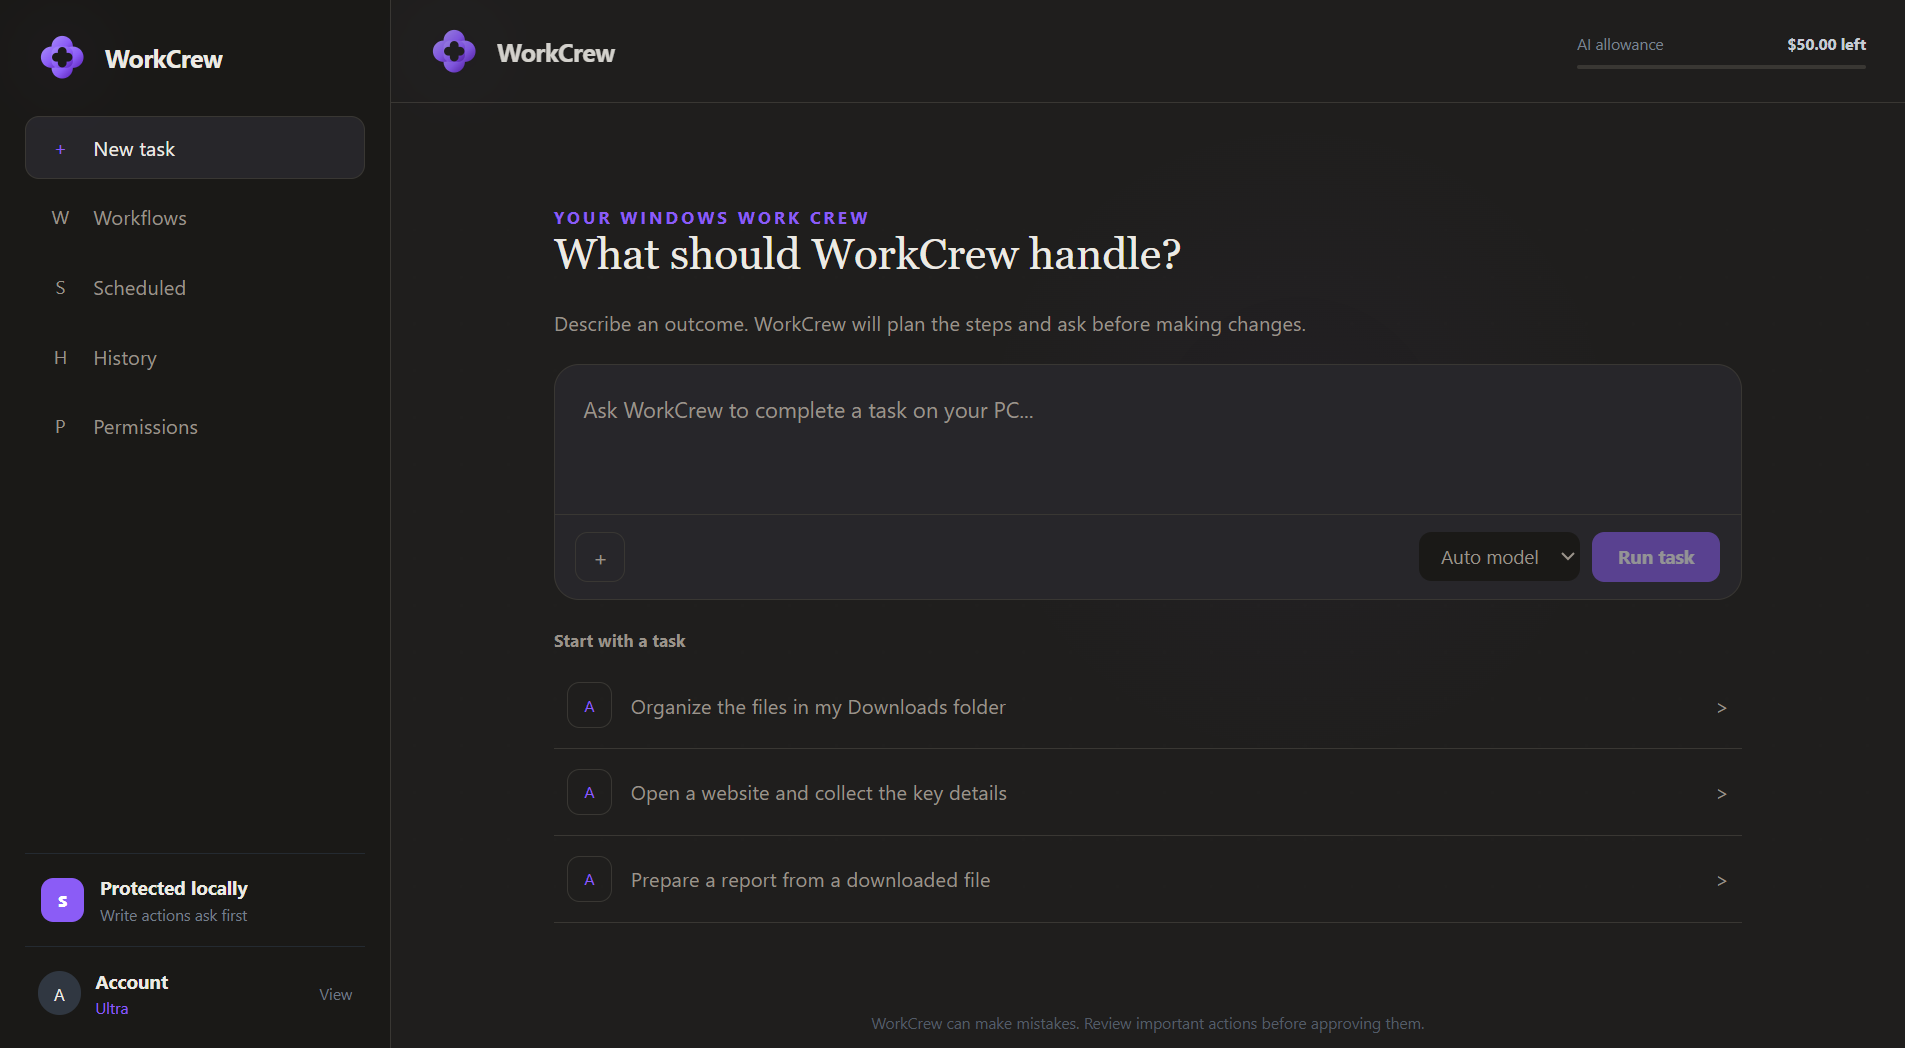
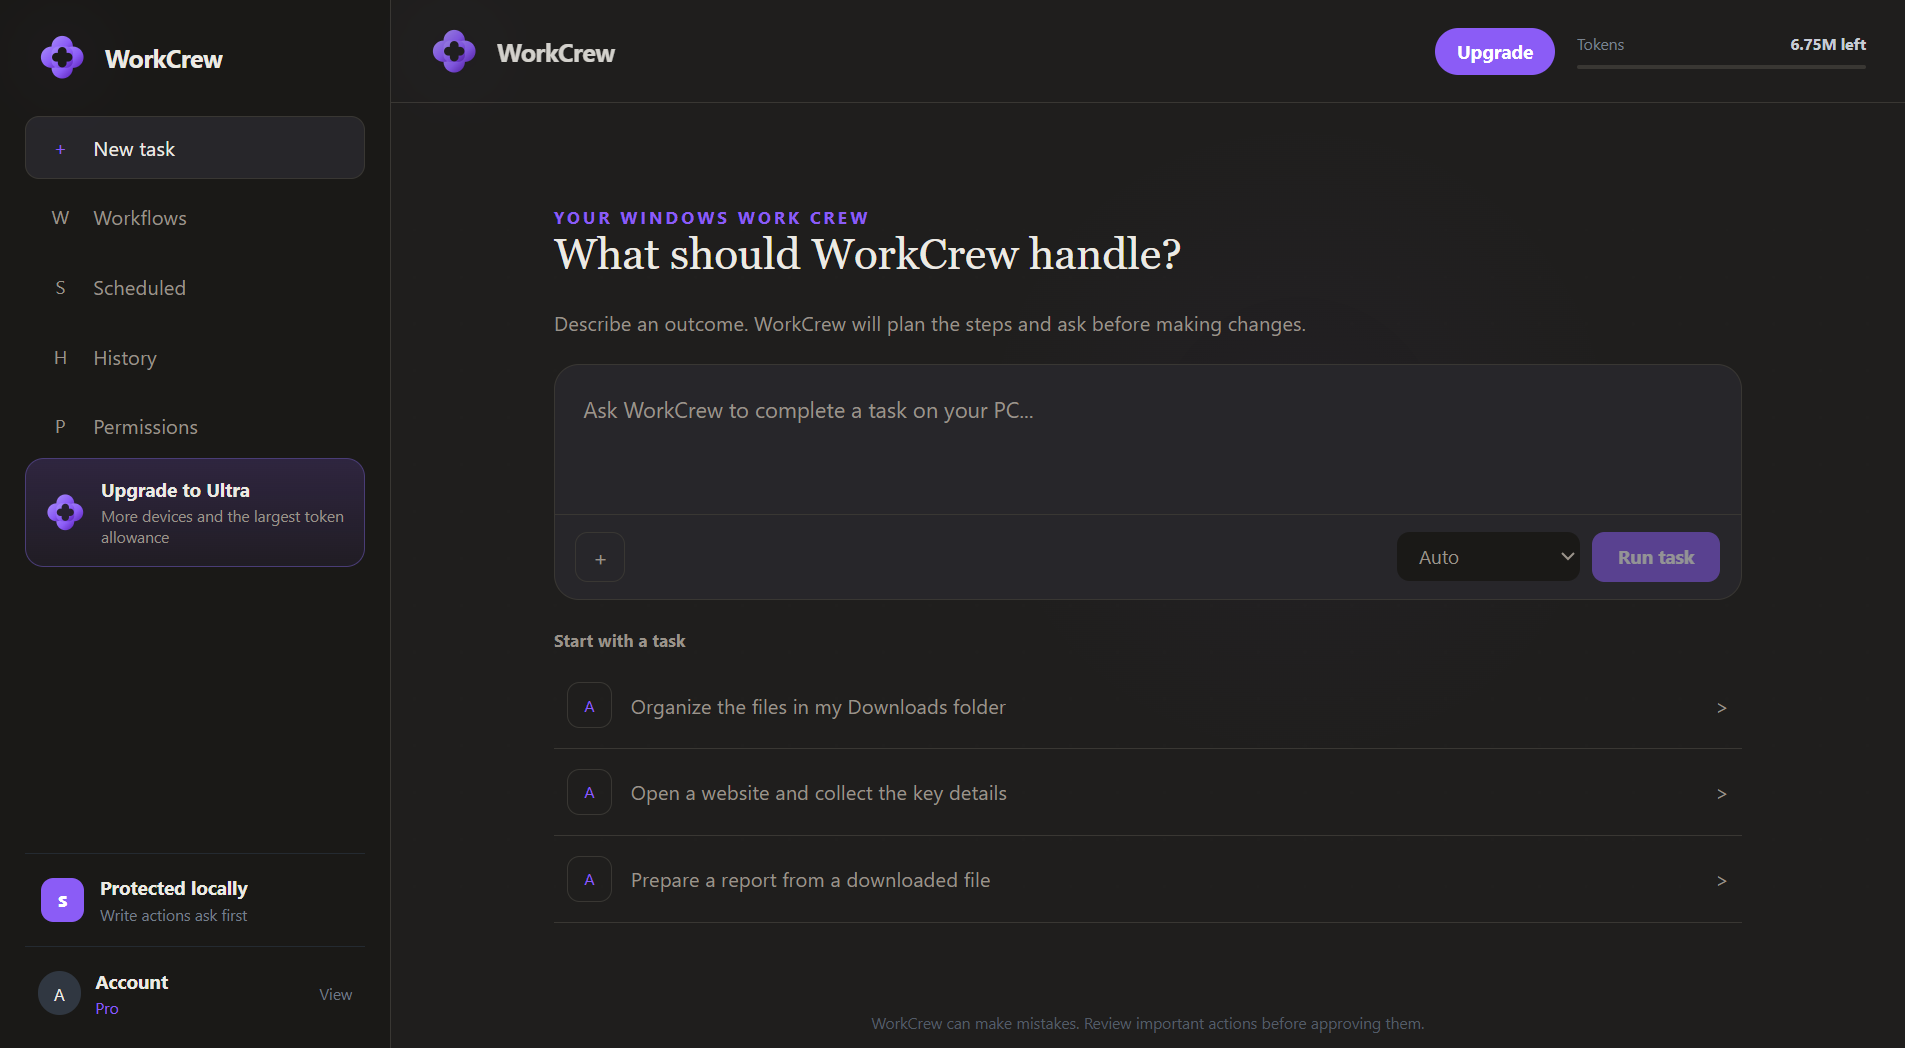
Rebrand UI: tokens not dollars, no provider names, effort model labels, upgrade prompts, file picker
- Remove all user-facing Claude, Playwright, and pywinauto wording. Plan
  features now describe outcomes (automate your browser and Windows apps).
- Show usage as a monthly token balance everywhere (header, account dialog),
  never a dollar figure.
- Rename model options to Auto, Quick answer, Medium effort, High effort.
- Add upgrade prompts (header pill and sidebar card) for plans below Ultra,
  hidden once on Ultra; wire upgrade to the checkout flow.
- The plus button opens a native file and photo picker with removable chips.
- E2E updated and green (7 tests) covering branding, tokens, effort names,
  and the upgrade flow.

diff --git a/apps/desktop/src/renderer/src/App.tsx b/apps/desktop/src/renderer/src/App.tsx
@@ -16,6 +16,7 @@ import {
   type Workflow,
   addHistory,
   clearHistory,
+  formatTokens,
   loadHistory,
   loadPermissions,
   loadSchedules,
@@ -55,15 +56,20 @@ function errorMessage(error: unknown): string {
   return error instanceof Error ? error.message : "Something went wrong";
 }
 
-function formatMoney(microdollars: number): string {
-  return new Intl.NumberFormat("en-US", { style: "currency", currency: "USD", minimumFractionDigits: 2 }).format(microdollars / 1_000_000);
-}
-
 function actionLabel(action: AutomationAction): string {
   if (action.kind === "finish") return "Finished";
   if (action.kind === "browser") return `Browser: ${action.command}`;
   return `Windows: ${action.command}`;
 }
+
+// User-facing model names. The underlying tiers stay as values; we never show
+// provider or model brand names in the interface.
+const MODEL_LABELS: Record<ModelTier, string> = {
+  auto: "Auto",
+  haiku: "Quick answer",
+  sonnet: "Medium effort",
+  opus: "High effort"
+};
 
 function LogoMark() {
   return (
@@ -205,11 +211,12 @@ function Paywall({ info, onActivated }: { info: AppInfo; onActivated: (state: Su
                 {busy === plan ? "Preparing" : simulated ? `Activate ${item.name}` : `Subscribe to ${item.name}`}
               </button>
               <ul>
-                <li>{formatMoney(item.monthlyApiBudgetMicrodollars)} monthly Claude allowance</li>
+                <li>{formatTokens(item.monthlyApiBudgetMicrodollars)} tokens every month</li>
                 <li>{item.devices} Windows {item.devices === 1 ? "device" : "devices"}</li>
-                <li>Playwright CLI browser automation</li>
-                <li>Secure pywinauto desktop actions</li>
-                <li>Saved and scheduled workflows</li>
+                <li>Automate anything in your browser</li>
+                <li>Automate your Windows apps and files</li>
+                <li>Save tasks and run them on a schedule</li>
+                {plan === "ultra" && <li>Priority automation and support</li>}
               </ul>
             </article>
           );
@@ -222,10 +229,13 @@ function Paywall({ info, onActivated }: { info: AppInfo; onActivated: (state: Su
   );
 }
 
-function Workspace({ entitlement, onSignOut }: { entitlement: SubscriptionState; onSignOut: () => Promise<void> }) {
+function Workspace({ entitlement, onSignOut, onUpgrade }: { entitlement: SubscriptionState; onSignOut: () => Promise<void>; onUpgrade: () => Promise<void> }) {
   const [task, setTask] = useState("");
   const [model, setModel] = useState<ModelTier>("auto");
   const [running, setRunning] = useState(false);
+  const [attachments, setAttachments] = useState<{ path: string; name: string; size: number }[]>([]);
+  const [upgrading, setUpgrading] = useState(false);
+  const isUltra = entitlement.plan === "ultra";
   const [activities, setActivities] = useState<Activity[]>([]);
   const [usage, setUsage] = useState(entitlement.usedMicrodollars);
   const [view, setView] = useState<PanelView>("new");
@@ -334,6 +344,31 @@ function Workspace({ entitlement, onSignOut }: { entitlement: SubscriptionState;
     setRunning(false);
   }
 
+  // Open the native file picker and add the chosen files as attachment chips.
+  async function addFiles() {
+    if (running) return;
+    const picked = await window.workcrew.files.pick();
+    if (picked.length === 0) return;
+    setAttachments((current) => {
+      const seen = new Set(current.map((file) => file.path));
+      return [...current, ...picked.filter((file) => !seen.has(file.path))];
+    });
+  }
+
+  function removeFile(path: string) {
+    setAttachments((current) => current.filter((file) => file.path !== path));
+  }
+
+  async function handleUpgrade() {
+    if (upgrading) return;
+    setUpgrading(true);
+    try {
+      await onUpgrade();
+    } finally {
+      setUpgrading(false);
+    }
+  }
+
   const suggestions = [
     "Organize the files in my Downloads folder",
     "Open a website and collect the key details",
@@ -366,6 +401,15 @@ function Workspace({ entitlement, onSignOut }: { entitlement: SubscriptionState;
             </button>
           ))}
         </nav>
+        {!isUltra && (
+          <button className="upgrade-card" onClick={handleUpgrade} disabled={upgrading} aria-label="Upgrade to Ultra">
+            <span className="upgrade-spark"><LogoMark /></span>
+            <span>
+              <strong>{upgrading ? "Upgrading..." : "Upgrade to Ultra"}</strong>
+              <small>More devices and the largest token allowance</small>
+            </span>
+          </button>
+        )}
         <div className="sidebar-security"><span className="shield">S</span><div><strong>Protected locally</strong><small>Write actions ask first</small></div></div>
         <button className="account-button" onClick={() => setAccountOpen(true)} aria-label="Open account">
           <span className="avatar">A</span>
@@ -376,9 +420,16 @@ function Workspace({ entitlement, onSignOut }: { entitlement: SubscriptionState;
       <section className="workspace">
         <header className="workspace-header">
           <Brand compact />
-          <div className="usage-box">
-            <div><span>AI allowance</span><strong>{formatMoney(Math.max(0, entitlement.budgetMicrodollars - usage))} left</strong></div>
-            <div className="usage-track"><span style={{ width: `${percent}%` }} /></div>
+          <div className="header-right">
+            {!isUltra && (
+              <button className="upgrade-pill" onClick={handleUpgrade} disabled={upgrading}>
+                {upgrading ? "Upgrading..." : "Upgrade"}
+              </button>
+            )}
+            <div className="usage-box">
+              <div><span>Tokens</span><strong>{formatTokens(Math.max(0, entitlement.budgetMicrodollars - usage))} left</strong></div>
+              <div className="usage-track"><span style={{ width: `${percent}%` }} /></div>
+            </div>
           </div>
         </header>
         <div className="workspace-content">
@@ -387,13 +438,22 @@ function Workspace({ entitlement, onSignOut }: { entitlement: SubscriptionState;
           <p className="workspace-subtitle">Describe an outcome. WorkCrew will plan the steps and ask before making changes.</p>
           <div className={`composer ${running ? "composer-running" : ""}`}>
             <textarea ref={composerRef} value={task} onChange={(event) => setTask(event.target.value)} placeholder="Ask WorkCrew to complete a task on your PC..." disabled={running} />
+            {attachments.length > 0 && (
+              <div className="attachment-row">
+                {attachments.map((file) => (
+                  <span className="attachment-chip" key={file.path} title={file.path}>
+                    <span className="attachment-name">{file.name}</span>
+                    <button onClick={() => removeFile(file.path)} aria-label={`Remove ${file.name}`}>x</button>
+                  </span>
+                ))}
+              </div>
+            )}
             <div className="composer-tools">
-              <button className="tool-button" title="Attachments are added in the next release" aria-label="Add attachment">+</button>
-              <select value={model} onChange={(event) => setModel(event.target.value as ModelTier)} disabled={running} aria-label="Model preference">
-                <option value="auto">Auto model</option>
-                <option value="haiku">Haiku</option>
-                <option value="sonnet">Sonnet</option>
-                <option value="opus">Opus</option>
+              <button className="tool-button" onClick={addFiles} disabled={running} title="Add files or photos" aria-label="Add files or photos">+</button>
+              <select value={model} onChange={(event) => setModel(event.target.value as ModelTier)} disabled={running} aria-label="Answer effort">
+                {(["auto", "haiku", "sonnet", "opus"] as ModelTier[]).map((tier) => (
+                  <option key={tier} value={tier}>{MODEL_LABELS[tier]}</option>
+                ))}
               </select>
               {running ? <button className="stop-button" onClick={stop}>Stop</button> : <button className="run-button" onClick={() => runTask()} disabled={task.trim().length < 3}>Run task</button>}
             </div>
@@ -489,5 +549,14 @@ export default function App() {
   if (phase === "loading" || !info) return <main className="loading-shell"><Brand /><div className="loading-line" /><p>{loadingMessage}</p>{fatal && <button className="secondary" onClick={() => { setFatal(""); void refresh(); }}>Try again</button>}</main>;
   if (phase === "auth") return <AuthScreen onReady={refresh} />;
   if (phase === "paywall") return <Paywall info={info} onActivated={(state) => { setEntitlement(state); setPhase("workspace"); }} />;
-  return <Workspace entitlement={entitlement} onSignOut={async () => { await window.workcrew.auth.signOut(); setPhase("auth"); }} />;
+  return (
+    <Workspace
+      entitlement={entitlement}
+      onSignOut={async () => { await window.workcrew.auth.signOut(); setPhase("auth"); }}
+      onUpgrade={async () => {
+        if (info.billingMode === "simulated") setEntitlement(await window.workcrew.api.simulateCheckout("ultra", "year"));
+        else await window.workcrew.api.checkout("ultra", "year");
+      }}
+    />
+  );
 }

diff --git a/e2e/electron.spec.ts b/e2e/electron.spec.ts
@@ -52,6 +52,11 @@ test("a new account can sign up and reaches the paywall", async () => {
   await page.getByRole("button", { name: /create account/i }).click();
   await expect(page.locator(".paywall-shell")).toBeVisible();
   await expect(page.getByText("Put routine work on autopilot")).toBeVisible();
+  // No provider or model brand names are shown to the user.
+  await expect(page.locator(".paywall-shell")).not.toContainText("Claude");
+  await expect(page.locator(".paywall-shell")).not.toContainText("Playwright");
+  await expect(page.locator(".paywall-shell")).not.toContainText("pywinauto");
+  await expect(page.getByText(/tokens every month/i).first()).toBeVisible();
   await page.screenshot({ path: "workcrew-paywall.png", fullPage: true });
 });
 
@@ -72,12 +77,24 @@ test("the paywall can scroll to the footer", async () => {
   await expect(foot).toBeVisible();
 });
 
-test("activating a plan unlocks the workspace", async () => {
-  await page.getByRole("button", { name: /Activate Ultra/ }).click();
+test("activating Pro unlocks the workspace and shows upgrade prompts", async () => {
+  await page.getByRole("button", { name: /Activate Pro/ }).click();
   await expect(page.locator(".app-shell")).toBeVisible();
-  // The Ultra allowance and the composer should be present.
   await expect(page.getByPlaceholder(/Ask WorkCrew/i)).toBeVisible();
+  // A plan below Ultra sees upgrade prompts in the header and the sidebar.
+  await expect(page.locator(".upgrade-pill")).toBeVisible();
+  await expect(page.locator(".upgrade-card")).toBeVisible();
+  // The effort selector uses plain names, not model brands.
+  const effort = page.locator(".composer-tools select");
+  await expect(effort).toContainText("Quick answer");
+  await expect(effort).not.toContainText("Haiku");
   await page.screenshot({ path: "workcrew-workspace.png" });
+});
+
+test("upgrading to Ultra removes the upgrade prompts", async () => {
+  await page.locator(".upgrade-pill").click();
+  await expect(page.locator(".upgrade-pill")).toHaveCount(0);
+  await expect(page.locator(".upgrade-card")).toHaveCount(0);
 });
 
 test("the session persists and the account can sign out", async () => {

diff --git a/apps/desktop/src/main/index.ts b/apps/desktop/src/main/index.ts
@@ -1,6 +1,6 @@
 import "dotenv/config";
 import { join } from "node:path";
-import { app, BrowserWindow, ipcMain, session, shell } from "electron";
+import { app, BrowserWindow, dialog, ipcMain, session, shell } from "electron";
 import {
   APP_NAME,
   createCheckoutSchema,
@@ -128,6 +128,25 @@ function registerIpc(): void {
   ipcMain.handle("api:next-run", (_event, runId, raw) => {
     const safeRunId = z.string().uuid().parse(runId);
     return api.request(`/v1/runs/${safeRunId}/next`, { method: "POST", body: nextRunStepSchema.parse(raw ?? {}) });
+  });
+
+  ipcMain.handle("dialog:open-files", async () => {
+    if (!mainWindow) return [];
+    const result = await dialog.showOpenDialog(mainWindow, {
+      title: "Add files or photos",
+      buttonLabel: "Add",
+      properties: ["openFile", "multiSelections"],
+      filters: [
+        { name: "Documents and images", extensions: ["pdf", "txt", "md", "csv", "doc", "docx", "xls", "xlsx", "png", "jpg", "jpeg", "gif", "webp"] },
+        { name: "All files", extensions: ["*"] }
+      ]
+    });
+    if (result.canceled) return [];
+    const fs = await import("node:fs/promises");
+    return Promise.all(result.filePaths.map(async (filePath) => {
+      const stat = await fs.stat(filePath).catch(() => null);
+      return { path: filePath, name: filePath.split(/[\\/]/).pop() ?? filePath, size: stat?.size ?? 0 };
+    }));
   });
 
   ipcMain.handle("automation:browser", (_event, action) => browserCli.execute(action));

diff --git a/apps/desktop/src/renderer/src/lib/storage.ts b/apps/desktop/src/renderer/src/lib/storage.ts
@@ -218,6 +218,25 @@ export function savePermissions(state: PermissionState): PermissionState {
   return next;
 }
 
+// Token display -------------------------------------------------------------
+
+// The monthly allowance is tracked internally as a usage budget. For the user
+// we present it as a plain monthly token balance, never as a money figure and
+// never tied to any provider name.
+export function tokensFromBudget(internalUnits: number): number {
+  return Math.max(0, Math.round(internalUnits));
+}
+
+export function formatTokens(internalUnits: number): string {
+  const tokens = tokensFromBudget(internalUnits);
+  if (tokens >= 1_000_000) {
+    const millions = tokens / 1_000_000;
+    return `${millions >= 10 ? Math.round(millions) : Number(millions.toFixed(2))}M`;
+  }
+  if (tokens >= 1_000) return `${Math.round(tokens / 1_000)}K`;
+  return String(tokens);
+}
+
 // Time formatting ------------------------------------------------------------
 
 export function formatAbsoluteTime(timestamp: number): string {

diff --git a/apps/desktop/src/renderer/src/styles.css b/apps/desktop/src/renderer/src/styles.css
@@ -139,12 +139,30 @@ button:disabled { cursor: not-allowed; opacity: .5; }
 .workspace::before { content: ""; position: absolute; inset: 72px 0 35px; pointer-events: none; opacity: .05; background-image: radial-gradient(var(--line) 1px, transparent 1px); background-size: 30px 30px; mask-image: linear-gradient(to bottom, transparent, #000 25%, #000 75%, transparent); }
 .workspace-header { position: relative; z-index: 1; min-height: 66px; display: flex; align-items: center; justify-content: space-between; padding: 12px 25px; border-bottom: 1px solid var(--line); }
 .workspace-header > .brand { opacity: .88; }
+.header-right { display: flex; align-items: center; gap: 14px; }
+.upgrade-pill { padding: 7px 14px; border: 0; border-radius: 99px; cursor: pointer; font-size: 12px; font-weight: 700; color: var(--accent-ink); background: var(--accent); }
+.upgrade-pill:hover { background: var(--accent-soft); }
 .usage-box { width: 185px; }
 .usage-box > div:first-child { display: flex; justify-content: space-between; font-size: 10px; color: #79828f; }
 .usage-box strong { color: #c6ccd4; font-weight: 650; }
 /* Usage meter track warm-neutral, fill in the purple accent. */
 .usage-track { height: 3px; margin-top: 7px; border-radius: 5px; overflow: hidden; background: var(--line); }
 .usage-track span { display: block; height: 100%; background: var(--accent); }
+
+/* Upgrade card in the sidebar, shown to plans below Ultra. */
+.upgrade-card { display: flex; align-items: center; gap: 10px; margin: 0 0 12px; padding: 12px; border: 1px solid #4a3d77; border-radius: 12px; cursor: pointer; text-align: left; color: var(--text); background: linear-gradient(180deg, rgba(139,92,246,.18), rgba(139,92,246,.06)); }
+.upgrade-card:hover { border-color: var(--accent); }
+.upgrade-card .upgrade-spark { width: 26px; height: 26px; flex: none; display: grid; place-items: center; }
+.upgrade-card strong, .upgrade-card small { display: block; }
+.upgrade-card strong { font-size: 12px; }
+.upgrade-card small { margin-top: 2px; color: var(--muted); font-size: 10px; line-height: 1.35; }
+
+/* Attachment chips above the composer tools row. */
+.attachment-row { display: flex; flex-wrap: wrap; gap: 7px; padding: 0 14px 4px; }
+.attachment-chip { display: inline-flex; align-items: center; gap: 7px; max-width: 220px; padding: 5px 8px 5px 10px; border: 1px solid var(--line); border-radius: 8px; background: var(--panel); font-size: 12px; }
+.attachment-name { overflow: hidden; text-overflow: ellipsis; white-space: nowrap; }
+.attachment-chip button { border: 0; cursor: pointer; color: var(--muted); background: none; font-size: 12px; line-height: 1; padding: 0 2px; }
+.attachment-chip button:hover { color: var(--text); }
 .workspace-content { position: relative; z-index: 1; width: min(760px, calc(100% - 64px)); margin: auto; padding: 40px 0 22px; }
 /* Empty-state greeting is a modest one-line heading, not a hero.
    Serif body voice, weight 500, normal letter spacing (spec 2.1). */

diff --git a/apps/desktop/src/renderer/src/components/AccountDialog.tsx b/apps/desktop/src/renderer/src/components/AccountDialog.tsx
@@ -1,13 +1,6 @@
 import { useEffect, useRef, useState } from "react";
 import { PLAN_CATALOG, type SubscriptionState } from "@workcrew/contracts";
-
-function formatMoney(microdollars: number): string {
-  return new Intl.NumberFormat("en-US", {
-    style: "currency",
-    currency: "USD",
-    minimumFractionDigits: 2
-  }).format(microdollars / 1_000_000);
-}
+import { formatTokens } from "../lib/storage";
 
 function formatDate(value: string | null): string {
   if (!value) return "Not scheduled";
@@ -93,12 +86,12 @@ export function AccountDialog({
 
         <div className="account-usage">
           <div className="account-usage-head">
-            <span className="field-label">AI allowance</span>
-            <span>{formatMoney(remaining)} remaining</span>
+            <span className="field-label">Monthly tokens</span>
+            <span>{formatTokens(remaining)} left</span>
           </div>
           <div className="usage-track"><span style={{ width: `${percent}%` }} /></div>
           <div className="account-usage-foot">
-            <span>{formatMoney(used)} used of {formatMoney(budget)}</span>
+            <span>{formatTokens(used)} used of {formatTokens(budget)}</span>
             <span>Resets {formatDate(entitlement.budgetPeriodEnd)}</span>
           </div>
         </div>

diff --git a/apps/desktop/src/preload/index.ts b/apps/desktop/src/preload/index.ts
@@ -34,6 +34,9 @@ const workcrew = {
       return Promise.resolve(action.summary);
     },
     stop: () => ipcRenderer.invoke("automation:stop")
+  },
+  files: {
+    pick: (): Promise<{ path: string; name: string; size: number }[]> => ipcRenderer.invoke("dialog:open-files")
   }
 };
 